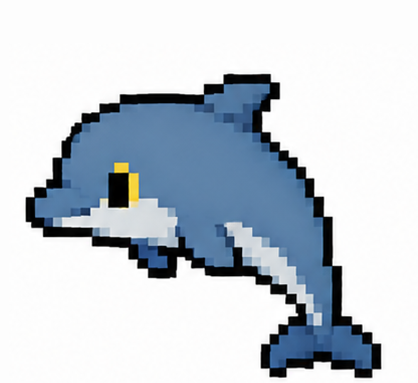
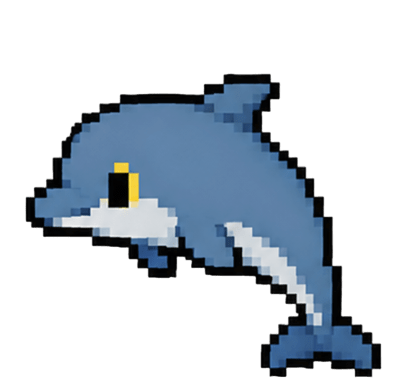
feat(theme): 玫瑰色主题 + 无背景动物 PNG + Cover 爱心元素
按用户反馈 3 件事:

1. 替换 10 个动物 PNG 为无背景透明版 (来自 cptinew/角色素材)
   hermit_crab / owl / peacock / koala / bee / dolphin / wolf_cub
   / penguin / rabbit / lamb 全部更新

2. 主题色 暖橘玫瑰 → 纯玫瑰系 (Material rose)
   --primary:    #FF7A45 → #E91E63 (玫瑰主色)
   --primary-dk: #E83A6F → #AD1457 (深玫瑰)
   --primary-lt: #FFD4C4 → #F8BBD0 (浅玫瑰)
   --bg-soft:    #FFF6E5 → #FCE4EC (极淡玫瑰)
   meta theme-color: #FF7A45 → #E91E63

3. Cover 入口页加爱心元素 (情感导向):
   - title badge 加 "❤ 2026 NEW · 感情模式 ❤"
   - 标题 CPTI 末尾 I 改成 ♥ 玫瑰心 (Georgia 字体, 心跳动画)
   - 副标 "Solo 测自己 ♥ Match 配对 ta"
   - 背景 6 个浮动爱心 (随机位置 + 浮动动画 + opacity 渐变)
   - 全部 reduced-motion 友好

diff --git a/styles.css b/styles.css
@@ -1,16 +1,16 @@
 /* ===========================================================
    CPTI · 感情模式 — styles.css
-   极简像素风 · 暖橘玫瑰 v3
+   极简像素风 · 玫瑰色 v7
    =========================================================== */
 
 :root {
-  --primary:     #FF7A45;    /* 暖橘,主色 */
-  --primary-dk:  #E83A6F;    /* 玫瑰红,hover/pressed/强调 */
-  --primary-lt:  #FFD4C4;    /* 浅橘,次要高亮 */
-  --accent:      #FBBF24;    /* 蜜糖黄，徽章/标签高亮 */
+  --primary:     #E91E63;    /* 玫瑰主色 (Material rose 500) */
+  --primary-dk:  #AD1457;    /* 深玫瑰,hover/pressed/强调 */
+  --primary-lt:  #F8BBD0;    /* 浅玫瑰,次要高亮 */
+  --accent:      #FBBF24;    /* 蜜糖黄,徽章/标签高亮 */
   --shadow:      #000;       /* 黑描边 + 黑阴影 */
   --bg: #FFFFFF;             /* 纯白底 */
-  --bg-soft: #FFF6E5;        /* 米白底,卡片内衬 (温暖感) */
+  --bg-soft: #FCE4EC;        /* 极淡玫瑰底,卡片内衬 */
   --surface: #F4F4F4;
   --surface-hover: #EBEBEB;
   --surface-strong: #E8E8E8;
@@ -83,12 +83,70 @@ img { display: block; max-width: 100%; image-rendering: pixelated; image-renderi
   text-align: center;
   padding-top: 28px;
   padding-bottom: 40px;
+  position: relative;
+  overflow: hidden;
 }
 .intro-inner {
   display: flex;
   flex-direction: column;
   align-items: center;
   gap: 10px;
+  position: relative;
+  z-index: 1;
+}
+
+/* 飘心装饰 — 背景慢慢浮起 */
+.floating-hearts {
+  position: absolute;
+  inset: 0;
+  pointer-events: none;
+  z-index: 0;
+}
+.floating-hearts .heart {
+  position: absolute;
+  font-size: 24px;
+  color: var(--primary);
+  opacity: 0.18;
+  animation: heartFloat 9s ease-in-out infinite;
+  user-select: none;
+}
+.heart-1 { top: 8%;   left: 8%;   font-size: 28px; animation-delay: 0s;   color: var(--primary-dk); }
+.heart-2 { top: 14%;  right: 10%; font-size: 20px; animation-delay: 1.5s; color: var(--primary); opacity: 0.22; }
+.heart-3 { top: 38%;  left: 4%;   font-size: 22px; animation-delay: 3s;   color: var(--primary); }
+.heart-4 { top: 46%;  right: 6%;  font-size: 32px; animation-delay: 4.5s; color: var(--primary-lt); opacity: 0.45; }
+.heart-5 { bottom: 22%; left: 12%; font-size: 18px; animation-delay: 6s;  color: var(--primary-dk); opacity: 0.20; }
+.heart-6 { bottom: 12%; right: 14%; font-size: 26px; animation-delay: 7.5s; color: var(--primary); opacity: 0.20; }
+@keyframes heartFloat {
+  0%, 100% { transform: translateY(0) rotate(-3deg); opacity: var(--heart-base, 0.18); }
+  50%      { transform: translateY(-12px) rotate(3deg); opacity: 0.35; }
+}
+@media (prefers-reduced-motion: reduce) {
+  .floating-hearts .heart { animation: none; }
+}
+
+/* CPTI 标题里的爱心 */
+.title-heart {
+  display: inline-block;
+  font-family: 'Georgia', 'Times New Roman', serif;
+  color: var(--primary);
+  -webkit-text-stroke: 2px var(--text);
+  margin-left: 4px;
+  vertical-align: -2px;
+  animation: heartBeat 1.6s ease-in-out infinite;
+}
+@keyframes heartBeat {
+  0%, 100% { transform: scale(1); }
+  50%      { transform: scale(1.12); }
+}
+@media (prefers-reduced-motion: reduce) {
+  .title-heart { animation: none; }
+}
+
+/* sub slogan 里的小心 */
+.sub-heart {
+  color: var(--primary);
+  font-size: 14px;
+  margin: 0 4px;
 }
 
 /* 3-row scrolling pixel pet marquee */

diff --git a/index.html b/index.html
@@ -3,7 +3,7 @@
 <head>
   <meta charset="UTF-8">
   <meta name="viewport" content="width=device-width, initial-scale=1, maximum-scale=1, user-scalable=no">
-  <meta name="theme-color" content="#FF7A45">
+  <meta name="theme-color" content="#E91E63">
   <meta name="description" content="CPTI 感情模式 · 你的恋爱本能 = 哪只动物?">
   <meta property="og:title" content="CPTI · 感情模式">
   <meta property="og:description" content="Solo 测自己 + Match 配对 ta · 10 种感情模式 · 100 种关系配对">
@@ -38,6 +38,16 @@
 
     <!-- ===================== INTRO ===================== -->
     <section class="view view-intro active" id="view-intro" aria-label="首页">
+      <!-- 飘心装饰背景 -->
+      <div class="floating-hearts" aria-hidden="true">
+        <span class="heart heart-1">❤</span>
+        <span class="heart heart-2">♥</span>
+        <span class="heart heart-3">❤</span>
+        <span class="heart heart-4">♡</span>
+        <span class="heart heart-5">❤</span>
+        <span class="heart heart-6">♥</span>
+      </div>
+
       <div class="intro-inner">
         <!-- 3-row scrolling pixel pet marquee -->
         <div class="intro-scroll" aria-hidden="true">
@@ -46,13 +56,15 @@
           <div class="scroll-row" id="scroll-row-3"></div>
         </div>
 
-        <span class="title-badge">2026 NEW · 感情模式</span>
-        <h1 class="title-pixel">CPTI</h1>
+        <span class="title-badge">❤ 2026 NEW · 感情模式 ❤</span>
+        <h1 class="title-pixel">
+          CPT<span class="title-heart" aria-hidden="true">♥</span>
+        </h1>
 
         <p class="intro-slogan-hero">
           <span class="slogan-bracket">「</span>你的<s class="slogan-strike">MBTI</s><em class="slogan-hl">恋爱本能</em>是哪只动物<span class="slogan-bracket">」</span>
         </p>
-        <p class="intro-slogan-sub">Solo 测自己 · Match 配对 ta</p>
+        <p class="intro-slogan-sub">Solo 测自己 <span class="sub-heart">♥</span> Match 配对 ta</p>
 
         <div class="intro-entries">
           <button class="btn btn-primary btn-lg" id="btn-solo" type="button">
